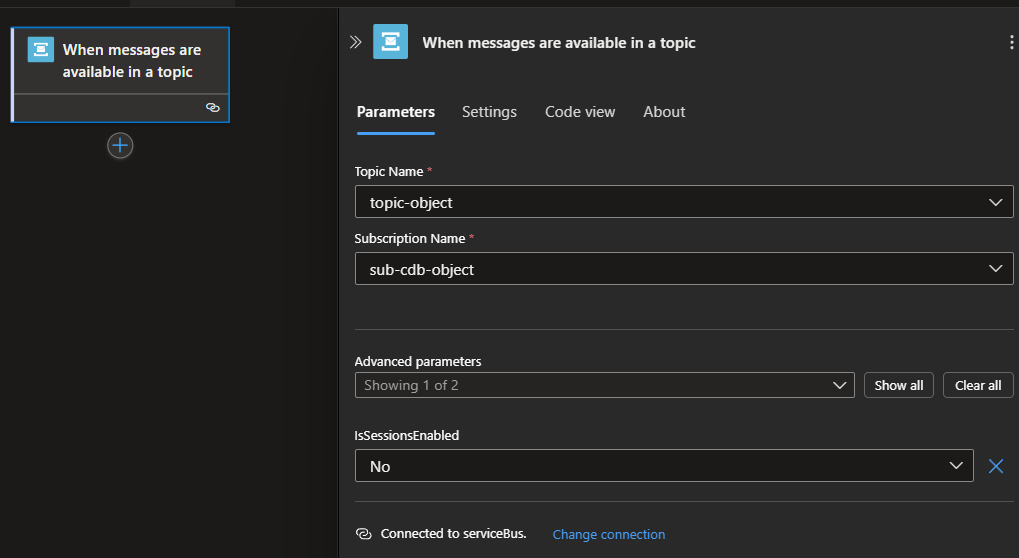
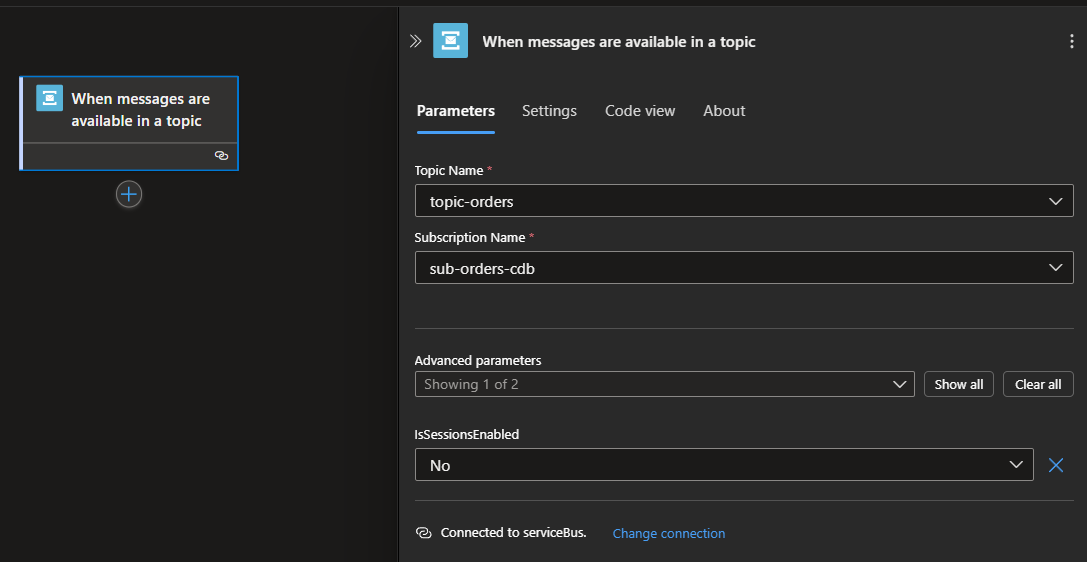
final fix for workshop.md lab1 and infra update for lab1 (api connection, workflows, artifact)

diff --git a/docs/workshop.md b/docs/workshop.md
@@ -157,7 +157,7 @@ Event Grid is an event broker that you can use to integrate applications while s
 
 Event Grid enables event-driven automation by reacting to changes in Azure resources, such as triggering workflows or functions when a blob is uploaded to Azure Blob Storage.
 This simplifies integration and real-time processing across services without constant polling.
-You will use it to trigger the Logic App workflow `wf_flightbooking_from_sa_to_sb` when a blob is uploaded in the `inputfiles` container of the Storage Account.
+You will use it to trigger the Logic App workflow `wf_orders_from_sa_to_sb` when a blob is uploaded in the `inputfiles` container of the Storage Account.
 
 The Logic App needs to access the Event Grid service through the Storage Account as it will create an Event Grid System Topic when the Event Grid trigger connector is created. Since we want to use Managed Identities to secure the connection between our Azure Resources, let's check how it is configured in the Storage Account.
 
@@ -173,7 +173,7 @@ The Logic App needs to access the Event Grid service through the Storage Account
 
 >- Navigate to the Storage Account `stdatalabnoipa[randomid]`.
 >- In the left-hand menu, click on `Access Control (IAM)`.
->- From the top-menu bar, click on Role Assignment and check that Logic App `loahandsonlabinoday01` has the **Event Grid Contributor** role.
+>- From the top-menu bar, click on Role Assignment and check that Logic App `loa-proc-lab-no-ipa-[randomId]` has the **Event Grid Contributor** role.
 
 You should see the following RBAC configuration in your Storage Account :
 
@@ -183,7 +183,7 @@ You should see the following RBAC configuration in your Storage Account :
 
 ### Check the Event Grid trigger in Logic App
 
-Next step is to actually trigger the Logic App `loahandsonlabinoday01` based on the event raised by your Event Grid System Topic when a file is uploaded to the `inputfiles` container.
+Next step is to actually trigger the Logic App `loa-proc-lab-no-ipa-[randomId]` based on the event raised by your Event Grid System Topic when a file is uploaded to the `inputfiles` container.
 
 Azure Logic Apps offers different components which can be used to define the steps of a flow as a chain of actions and controls. Here are the main ones :
 
@@ -196,7 +196,7 @@ It comes with one action "When a resource event occurs", that is triggered when 
 
 <div class="task" data-title="Tasks">
 
->- Check the configuration of the Event Grid trigger in the Logic App `loahandsonlabinoday01` workflow `wf_flightbooking_from_sa_to_sb`.
+>- Check the configuration of the Event Grid trigger in the Logic App `loa-proc-lab-no-ipa-[randomId]` workflow `wf_orders_from_sa_to_sb` and save the workflow to create the Event Grid subscription.
 
 </div>
 
@@ -204,12 +204,14 @@ It comes with one action "When a resource event occurs", that is triggered when 
 
 <summary> Toggle solution</summary>
 
->- Navigate to the Logic App `loahandsonlabinoday01`.
+>- Navigate to the Logic App `loa-proc-lab-no-ipa-[randomId]`.
 >- In the left-hand menu, click on `Workflows` from the `Workflows` section.
->- Open the workflow `wf_flightbooking_from_sa_to_sb`.
+>- Open the workflow `wf_orders_from_sa_to_sb`.
 >- In the left-hand menu, click on `Designer` from the `Developer` section.
 >- Click on the trigger `When a resource event occurs`
 >- Make sure that the Resource Id corresponds to your Storage Account where the file will be uploaded and that the Event type is **Microsoft.Storage.BlobCreated**
+>- In the `Subscription` textbox, add a space
+>- Save the workflow
 
 You should see the following RBAC configuration in your Storage Account :
 
@@ -280,7 +282,7 @@ To validate the event, we are using the Response action: `Response Validation We
 
 <div class="task" data-title="Tasks">
 
->- Check the configuration of the Condition action in the Logic App `loahandsonlabinoday01` workflow `wf_flightbooking_from_sa_to_sb`.
+>- Check the configuration of the Condition action in the Logic App `loa-proc-lab-no-ipa-[randomId]` workflow `wf_orders_from_sa_to_sb`.
 
 </div>
 
@@ -288,9 +290,9 @@ To validate the event, we are using the Response action: `Response Validation We
 
 <summary> Toggle solution</summary>
 
->- Navigate to the Logic App `loahandsonlabinoday01`.
+>- Navigate to the Logic App `loa-proc-lab-no-ipa-[randomId]`.
 >- In the left-hand menu, click on `Workflows` from the `Workflows` section.
->- Open the workflow `wf_flightbooking_from_sa_to_sb`.
+>- Open the workflow `wf_orders_from_sa_to_sb`.
 >- In the left-hand menu, click on `Designer` from the `Developer` section.
 >- Click on the condition `Condition`
 
@@ -304,7 +306,7 @@ You should see the following configuration in your Condition :
 
 ### Check Logic App permission to access Storage Account
 
-The Storage Account is used to store data objects, including blobs, file shares, queues, tables, and disks. In our lab, it is used to store the sample flight booking JSON file inside an `inputfiles` container.
+The Storage Account is used to store data objects, including blobs, file shares, queues, tables, and disks. In our lab, it is used to store the sample order JSON file inside an `inputfiles` container.
 
 The Logic App needs to access the Storage Account to retrieve the JSON file, and for the Event Grid trigger connector to list the available Storage Accounts in the Subscription.
 Since we want to use Managed Identities to secure the connection between our Azure Resources, let's check how it is configured in the Storage Account.
@@ -321,7 +323,7 @@ Since we want to use Managed Identities to secure the connection between our Azu
 
 >- Navigate to the Storage Account `stdatalabnoipa[randomid]`.
 >- In the left-hand menu, click on `Access Control (IAM)`.
->- From the top-menu bar, click on Role Assignment and check that Logic App `loahandsonlabinoday01` has the **Storage Blob Data Contributor** role.
+>- From the top-menu bar, click on Role Assignment and check that Logic App `loa-proc-lab-no-ipa-[randomId]` has the **Storage Blob Data Contributor** role.
 
 You should see the following RBAC configuration in your Storage Account :
 
@@ -335,7 +337,7 @@ To retrieve the content of the file that will be uploaded in the `inputfiles` co
 
 <div class="task" data-title="Tasks">
 
->- Check the configuration of the `Read blob content` action in Logic App `loahandsonlabinoday01` workflow `wf_flightbooking_from_sa_to_sb`:
+>- Check the configuration of the `Read blob content` action in Logic App `loa-proc-lab-no-ipa-[randomId]` workflow `wf_orders_from_sa_to_sb`:
 
 </div>
 
@@ -343,9 +345,9 @@ To retrieve the content of the file that will be uploaded in the `inputfiles` co
 
 <summary> Toggle solution</summary>
 
->- Navigate to the Logic App `loahandsonlabinoday01`.
+>- Navigate to the Logic App `loa-proc-lab-no-ipa-[randomId]`.
 >- In the left-hand menu, click on `Workflows` from the `Workflows` section.
->- Open the workflow `wf_flightbooking_from_sa_to_sb`.
+>- Open the workflow `wf_orders_from_sa_to_sb`.
 >- In the left-hand menu, click on `Designer` from the `Developer` section.
 >- Click on the action `Read blob content`.
 >- Make sure that the Container Name is set to `inputfiles` and that the Blob Name is set to `last(split(items('For_each')['subject'], '/'))`.
@@ -390,7 +392,7 @@ The Logic App needs to access the Service Bus to publish the message (content of
 
 >- Navigate to the Service Bus `sb-lab-no-ipa-[randomid]`.
 >- In the left-hand menu, click on `Access Control (IAM)`.
->- From the top-menu bar, click on Role Assignment and check that Logic App `loahandsonlabinoday01` has the **Service Bus Data Receiver** and **Service Bus Data Sender** roles.
+>- From the top-menu bar, click on Role Assignment and check that Logic App `loa-proc-lab-no-ipa-[randomId]` has the **Service Bus Data Receiver** and **Service Bus Data Sender** roles.
 
 You should see the following RBAC configuration in your Service Bus Namespace :
 
@@ -405,7 +407,7 @@ To do that, we are using the `Service Bus` connector and `Send message to a queu
 
 <div class="task" data-title="Tasks">
 
->- Check the configuration of the `Send message to a queue or topic` action in Logic App `loahandsonlabinoday01` workflow `wf_flightbooking_from_sa_to_sb`:
+>- Check the configuration of the `Send message to a queue or topic` action in Logic App `loa-proc-lab-no-ipa-[randomId]` workflow `wf_orders_from_sa_to_sb`:
 
 </div>
 
@@ -413,9 +415,9 @@ To do that, we are using the `Service Bus` connector and `Send message to a queu
 
 <summary> Toggle solution</summary>
 
->- Navigate to the Logic App `loahandsonlabinoday01`.
+>- Navigate to the Logic App `loa-proc-lab-no-ipa-[randomId]`.
 >- In the left-hand menu, click on `Workflows` from the `Workflows` section.
->- Open the workflow `wf_flightbooking_from_sa_to_sb`.
+>- Open the workflow `wf_orders_from_sa_to_sb`.
 >- In the left-hand menu, click on `Designer` from the `Developer` section.
 >- Click on the action `Send message`.
 >- Make sure that the Container Name is set to `inputfiles` and that the Blob Name is set to `last(split(items('For_each')['subject'], '/'))`.
@@ -441,7 +443,7 @@ As the Service Bus connection configuration is already done, we will focus on th
 
 <div class="task" data-title="Tasks">
 
->- Create and configure the Service Bus trigger in Logic App `loahandsonlabinoday01` workflow `wf_flightbooking_from_sb_to_cdb`:
+>- Create and configure the Service Bus trigger in Logic App `loa-proc-lab-no-ipa-[randomId]` workflow `wf_orders_from_sb_to_cdb`:
 
 </div>
 
@@ -449,9 +451,9 @@ As the Service Bus connection configuration is already done, we will focus on th
 
 <summary> Toggle solution</summary>
 
->- Navigate to the Logic App `loahandsonlabinoday01`.
+>- Navigate to the Logic App `loa-proc-lab-no-ipa-[randomId]`.
 >- In the left-hand menu, click on `Workflows` from the `Workflows` section.
->- Open the workflow `wf_flightbooking_from_sb_to_cdb`.
+>- Open the workflow `wf_orders_from_sb_to_cdb`.
 >- In the left-hand menu, click on `Designer` from the `Developer` section.
 >- Click on the `Add a trigger` button.
 >- In the triggers list search for `Service Bus` and select the `When messages are available in a topic` trigger.
@@ -514,7 +516,7 @@ We will use a `Compose` action with a function to transform the JSON message int
 
 <div class="task" data-title="Tasks">
 
->- Configure a `Compose` action with a function to transform JSON into XML in Logic App `loahandsonlabinoday01` workflow `wf_flightbooking_from_sb_to_cdb`:
+>- Configure a `Compose` action with a function to transform JSON into XML in Logic App `loa-proc-lab-no-ipa-[randomId]` workflow `wf_orders_from_sb_to_cdb`:
 
 </div>
 
@@ -522,12 +524,12 @@ We will use a `Compose` action with a function to transform the JSON message int
 
 <summary> Toggle solution</summary>
 
->- Navigate to the Logic App `loahandsonlabinoday01`.
+>- Navigate to the Logic App `loa-proc-lab-no-ipa-[randomId]`.
 >- In the left-hand menu, click on `Workflows` from the `Workflows` section.
->- Open the workflow `wf_flightbooking_from_sb_to_cdb`.
+>- Open the workflow `wf_orders_from_sb_to_cdb`.
 >- In the left-hand menu, click on `Designer` from the `Developer` section.
 >- Click on the `+` button, select `Add an action` and search for `Compose` from the list of actions.
->- In the Inputs field of the Compose action, enter the following function: `xml(json(triggerBody()?['contentData']))`.
+>- In the Inputs field of the Compose action, click on the `fx` icon and enter the following function: `xml(json(triggerBody()?['contentData']))`.
 >- Rename the action `JSON to XML`
 >- Once everything is set, click on the Save button at the top left corner.
 
@@ -541,7 +543,7 @@ We will then use a `Transform XML` action to transform the XML message into the 
 
 <div class="task" data-title="Tasks">
 
->- Configure a `Transform XML` action using an XSLT file  in Logic App `loahandsonlabinoday01` workflow `wf_flightbooking_from_sb_to_cdb`:
+>- Configure a `Transform XML` action using an XSLT file  in Logic App `loa-proc-lab-no-ipa-[randomId]` workflow `wf_orders_from_sb_to_cdb`:
 
 </div>
 
@@ -550,9 +552,9 @@ We will then use a `Transform XML` action to transform the XML message into the 
 <summary> Toggle solution</summary>
 
 >- Click on the `+` button, select `Add an action` and search for `Transform XML` from the list of actions.
->- In the Content field, enter the following text: `outputs('JSON_to_XML')`.
+>- In the Content field, click on the `fx` icon and enter the following text: `outputs('JSON_to_XML')`.
 >- In the Map Source dropdown list, select `LogicApp`.
->- In the Map Name dropdown list, select `transformation_flightbooking`.
+>- In the Map Name dropdown list, select `transformation_orders`.
 >- Rename the action `Transform XML`
 >- Once everything is set, click on the Save button at the top left corner.
 
@@ -566,7 +568,7 @@ We will now use a `Compose` action with a function to transform the XML transfor
 
 <div class="task" data-title="Tasks">
 
->- Configure a `Compose` action with a function to transform JSON into XML  in Logic App `loahandsonlabinoday01` workflow `wf_flightbooking_from_sb_to_cdb`:
+>- Configure a `Compose` action with a function to transform JSON into XML  in Logic App `loa-proc-lab-no-ipa-[randomId]` workflow `wf_orders_from_sb_to_cdb`:
 
 </div>
 
@@ -575,7 +577,7 @@ We will now use a `Compose` action with a function to transform the XML transfor
 <summary> Toggle solution</summary>
 
 >- Click on the `+` button, select `Add an action` and search for `Compose` from the list of actions.
->- In the Inputs field of the Compose action, enter the following function: `json(body('Transform_XML'))`.
+>- In the Inputs field of the Compose action, click on the `fx` icon and enter the following function: `json(body('Transform_XML'))`.
 >- Rename the action `XML to JSON`
 >- Once everything is set, click on the Save button at the top left corner.
 
@@ -591,15 +593,39 @@ Once the message has been transformed to match the format of the target system, 
 Azure Cosmos DB is a fully managed NoSQL database which offers Geo-redundancy and multi-region write capabilities.
 It currently supports NoSQL, MongoDB, Cassandra, Gremlin, Table and PostgreSQL APIs and offers a serverless option which is perfect for our use case.
 
-### Retrieve Cosmos DB Shared Access Key
+Before creating the document in Cosmos DB, we need to add a unique `id` property to the document, as it is mandatory.
+We will use a `Compose` action to generate a unique identifier and append an `id` property to our message.
 
-To use the Cosmos DB connector in our Logic App workflow and write to the Cosmos DB container, you can use the Shared Access Key for authentication.
+<div class="task" data-title="Tasks">
+
+>- Configure a `Compose` action to generate a UUID and append the id property in Logic App `loa-proc-lab-no-ipa-[randomId]` workflow `wf_orders_from_sb_to_cdb`.
+
+</div>
+
+<details>
+
+<summary> Toggle solution</summary>
+
+>- Click on the `+` button, select `Add an action` and search for `Compose`.
+>- In the Inputs textbox, click on the `fx` icon and enter the following text : `addProperty(outputs('XML_to_JSON'), 'id', guid())`
+>- Rename the action `Append id property and generate UUID`
+>- Once everything is set, click on the Save button on the top left corner.
+
+The Compose action should look like this :
+
+![Generate UUID](assets/lab1/image-15.png)
+
+</details>
+
+### Retrieve Cosmos DB Primary Connection String
+
+To use the Cosmos DB connector in our Logic App workflow and write to the Cosmos DB container, you can use the Primary Connection String for authentication.
 This key grants the Logic App access to the Cosmos DB account and allows it to perform the required operations.
 We will now see how to retrieve this key for integration into our configuration.
 
 <div class="task" data-title="Tasks">
 
->- Retrieve the Cosmos DB Shared Access Key from `cos-lab-no-ipa-[randomid]` Cosmos DB account:
+>- Retrieve the Cosmos DB Primary Connection String from `cos-lab-no-ipa-[randomid]` Cosmos DB account:
 
 </div>
 
@@ -621,12 +647,12 @@ You should see the following Credentials :
 
 ### Store data to Cosmos DB
 
-Now we can add the last step of the Logic App flow that will store the transformed message in the Cosmos DB database using the Create or update document V3 operation.
+Now we can add the last step of the Logic App flow that will store the transformed message in the Cosmos DB database using the Create or update item operation.
 First, we need to configure the connection to our CosmosDB account.
 
 <div class="task" data-title="Tasks">
 
->- Configure the connection to CosmosDB for using the `Create or update document (V3)` connector in Logic App `loahandsonlabinoday01` workflow `wf_flightbooking_from_sb_to_cdb`.
+>- Configure the connection to CosmosDB for using the `Create or update item` connector in Logic App `loa-proc-lab-no-ipa-[randomId]` workflow `wf_orders_from_sb_to_cdb`.
 
 </div>
 
@@ -634,12 +660,12 @@ First, we need to configure the connection to our CosmosDB account.
 
 <summary> Toggle solution</summary>
 
->- Navigate to the Logic App `loahandsonlabinoday01`.
+>- Navigate to the Logic App `loa-proc-lab-no-ipa-[randomId]`.
 >- In the left-hand menu, click on `Workflows` from the `Workflows` section.
->- Open the workflow `wf_flightbooking_from_sb_to_cdb`.
+>- Open the workflow `wf_orders_from_sb_to_cdb`.
 >- In the left-hand menu, click on `Designer` from the `Developer` section.
 >- Click on the `+` button, select `Add an action` and search for `Cosmos DB`.
->- Select `Create or update document (V3)`
+>- Select `Create or update item`
 >- Set the connection with your Cosmos Db Instance: Select the Access Key authentication type and set the primary key that you retrieved in the previous step
 
 The configuration should look like that:
@@ -649,36 +675,12 @@ The configuration should look like that:
 </details>
 
 Once the connection is set-up, we can configure the action.
-Before creating the document in Cosmos DB, we need to add a unique `id` property to the document, as it is mandatory.
-We will use a `Compose` action to generate a unique identifier and append an `id` property to our message.
-
-<div class="task" data-title="Tasks">
-
->- Configure a `Compose` action to generate a UUID and append the id property in Logic App `loahandsonlabinoday01` workflow `wf_flightbooking_from_sb_to_cdb`.
-
-</div>
-
-<details>
-
-<summary> Toggle solution</summary>
-
->- Click on the `+` button, select `Add an action` and search for `Compose`.
->- In the Inputs textbox, click on the `fx` icon and enter the following text : `addProperty(outputs('XML_to_JSON'), 'id', guid())`
->- Rename the action `Append id property and generate UUID`
->- Once everything is set, click on the Save button on the top left corner.
-
-The Compose action should look like this :
-
-![Generate UUID](assets/lab1/image-15.png)
-
-</details>
-
 We are now ready to send our message to our CosmosDB account.  
-To do so, we need to configure our `Create or update document (V3)` connector.
+To do so, we need to configure our `Create or update item` connector.
 
 <div class="task" data-title="Tasks">
 
->- Configure the `Create or update document (V3)` action to create a new document in CosmosDB in Logic App `loahandsonlabinoday01` workflow `wf_flightbooking_from_sb_to_cdb.
+>- Configure the `Create or update item` action to create a new document in CosmosDB in Logic App `loa-proc-lab-no-ipa-[randomId]` workflow `wf_orders_from_sb_to_cdb.
 
 </div>
 
@@ -687,7 +689,7 @@ To do so, we need to configure our `Create or update document (V3)` connector.
 <summary> Toggle solution</summary>
 
 >- In the Database Id textbox, enter the following text : `orders`
->- In the Container Id textbox, enter the following text : `processed`
+>- In the Container Id textbox, enter the following text : `toprocess`
 >- In the Item textbox, click on the `lightning` button and select `Outputs` from the previous action `Append id property and generate UUID`
 >- Once everything is set, click on the Save button on the top left corner.
 
@@ -704,7 +706,7 @@ We are now ready to test our workflow.
 ### Check the message stored in the CosmosDB
 
 First, let's upload a new file to the `inputfiles` container of the `cos-lab-no-ipa-[randomid]` Storage Account to simulate a booking.
-You can download the JSON file from here: [Download sample JSON file](assets/sample_flightbooking.json)
+You can download the JSON file from here: [Download sample JSON file](assets/sample_order.json)
 
 <div class="task" data-title="Tasks">
 
@@ -719,7 +721,7 @@ You can download the JSON file from here: [Download sample JSON file](assets/sam
 >- Navigate to the Storage Account `stdatalabnoipa[randomid]`.
 >- In the left-hand menu, click on `Storage browser` and select `Blob containers`.
 >- Click on the `inputfiles` container.
->- From the top-menu bar, click on the `Upload` button, click on `Browse for files` and select the `sample_flightbooking.json` file from your Storage Explorer.
+>- From the top-menu bar, click on the `Upload` button, click on `Browse for files` and select the `sample_order.json` file from your Storage Explorer.
 >- Click on the `Upload` button below.
 
 You should see your file in the container:
